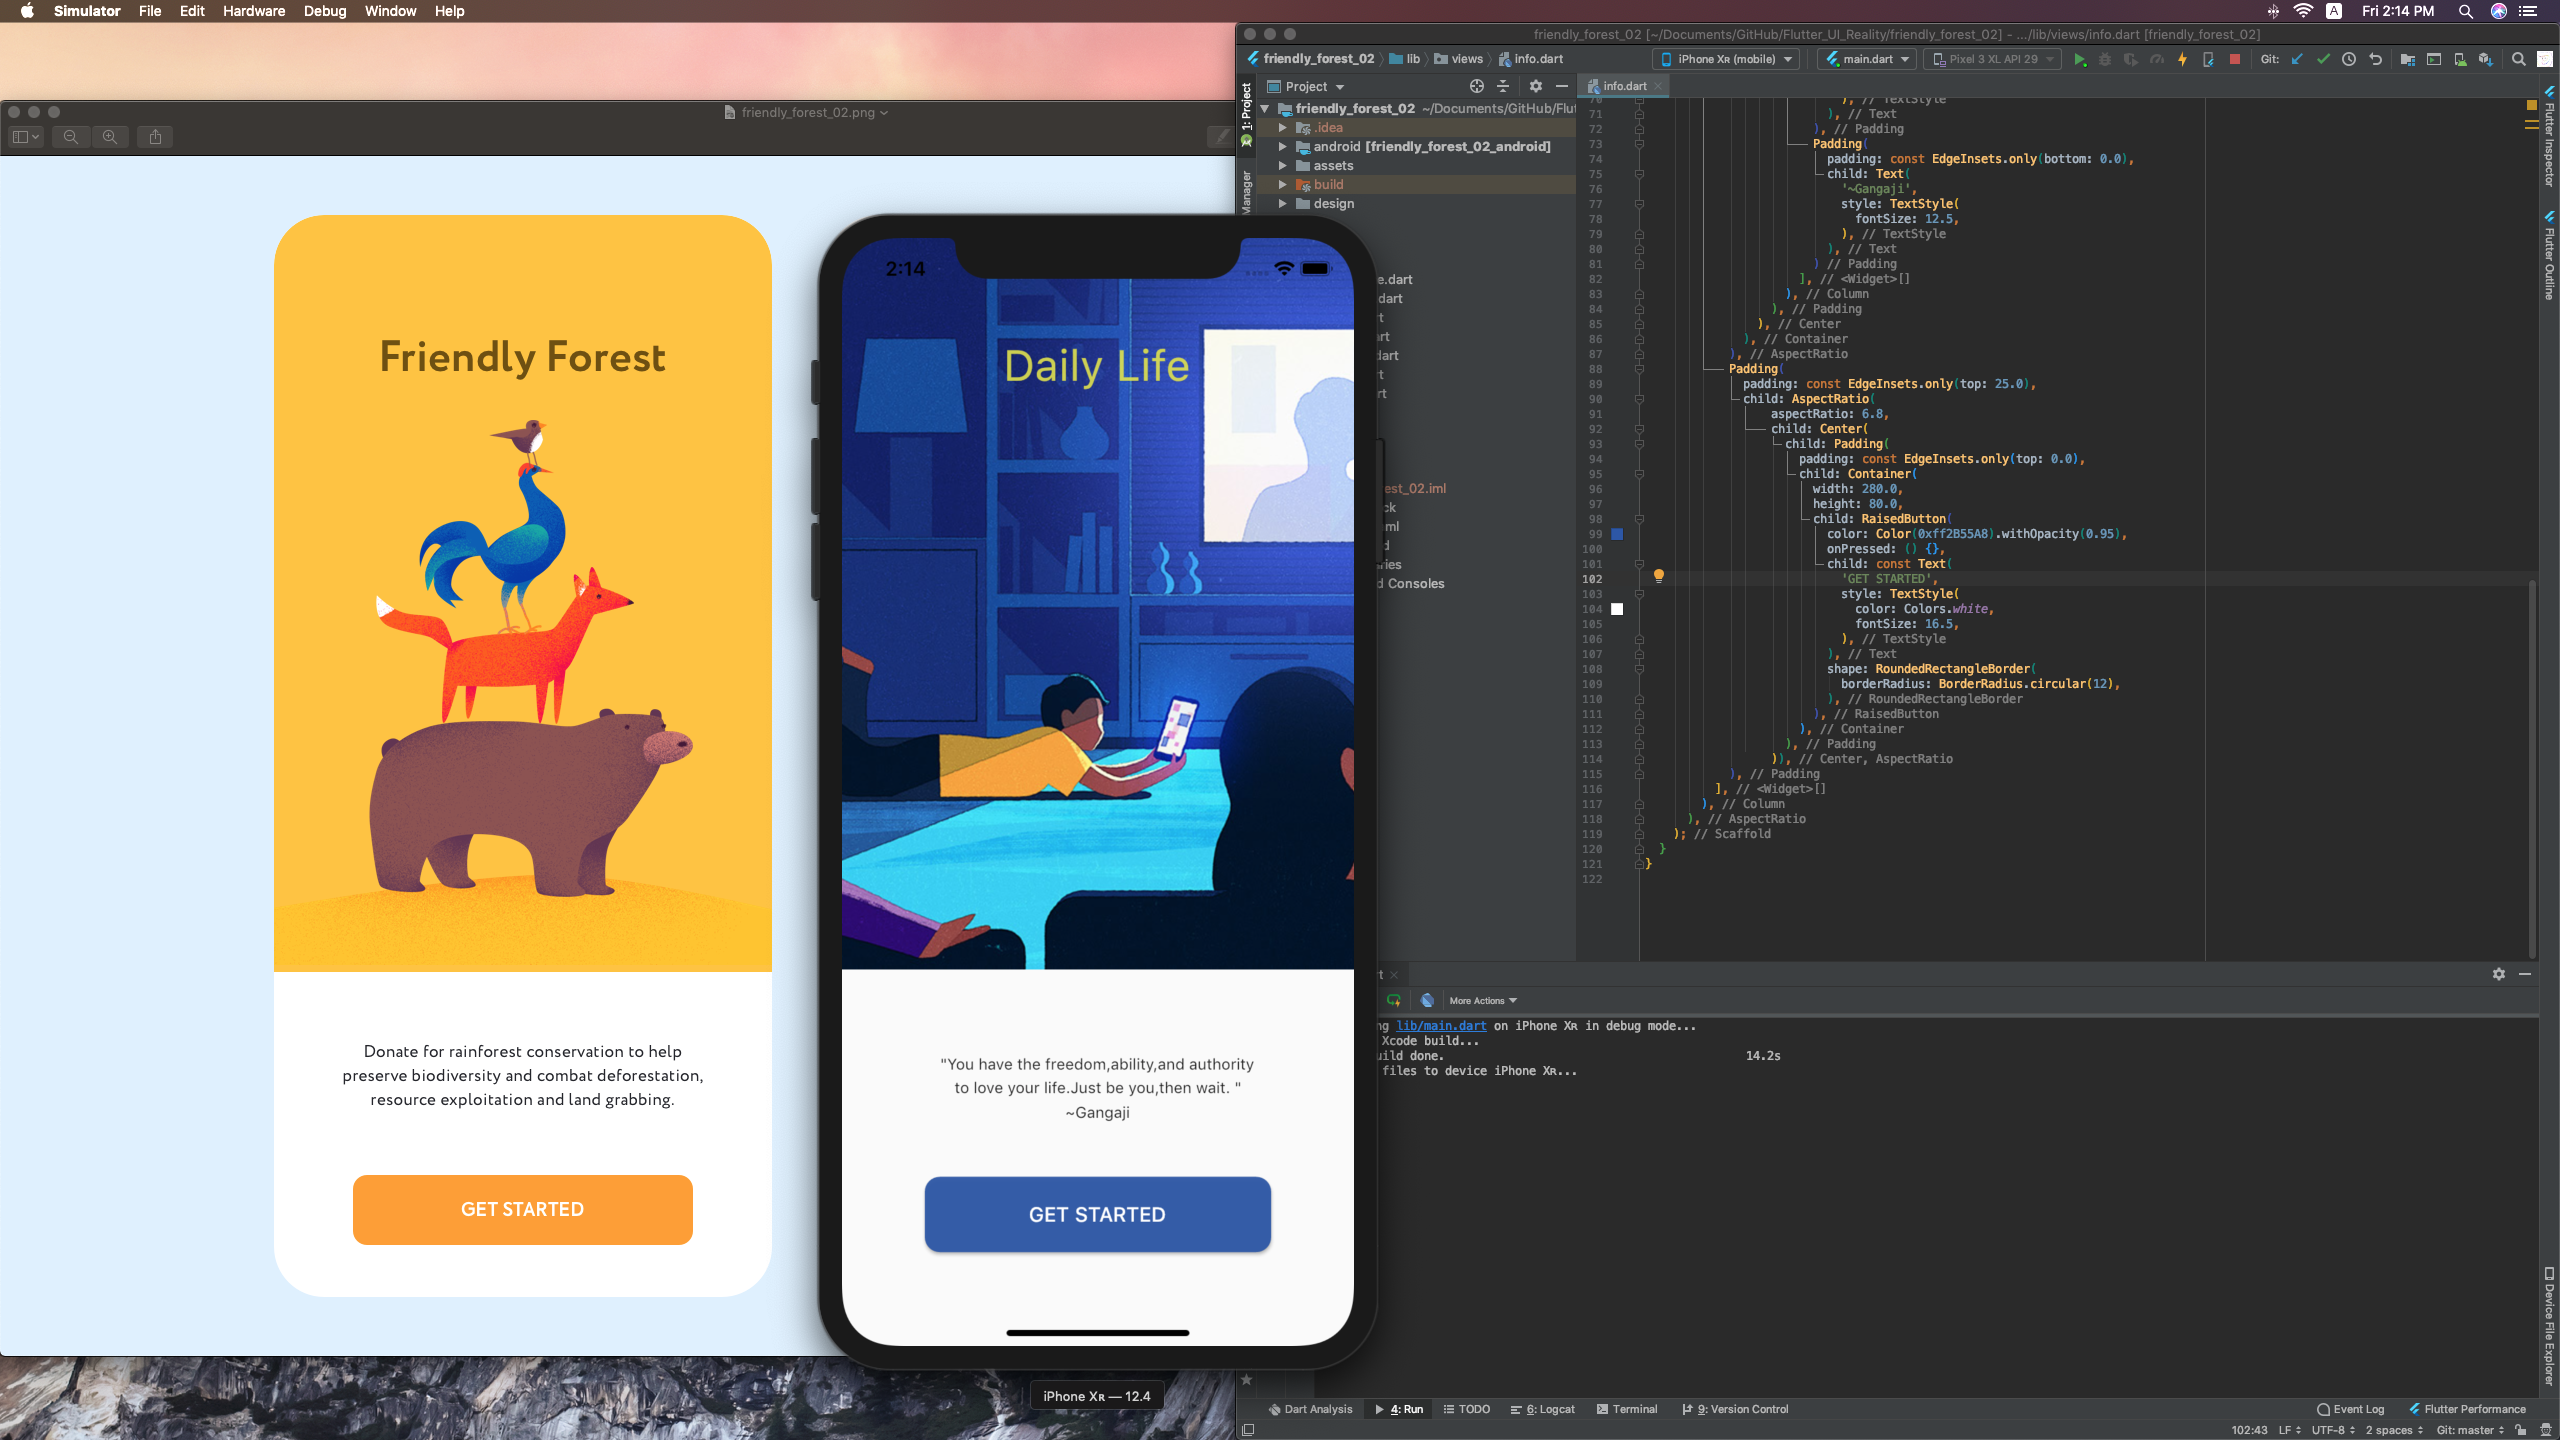
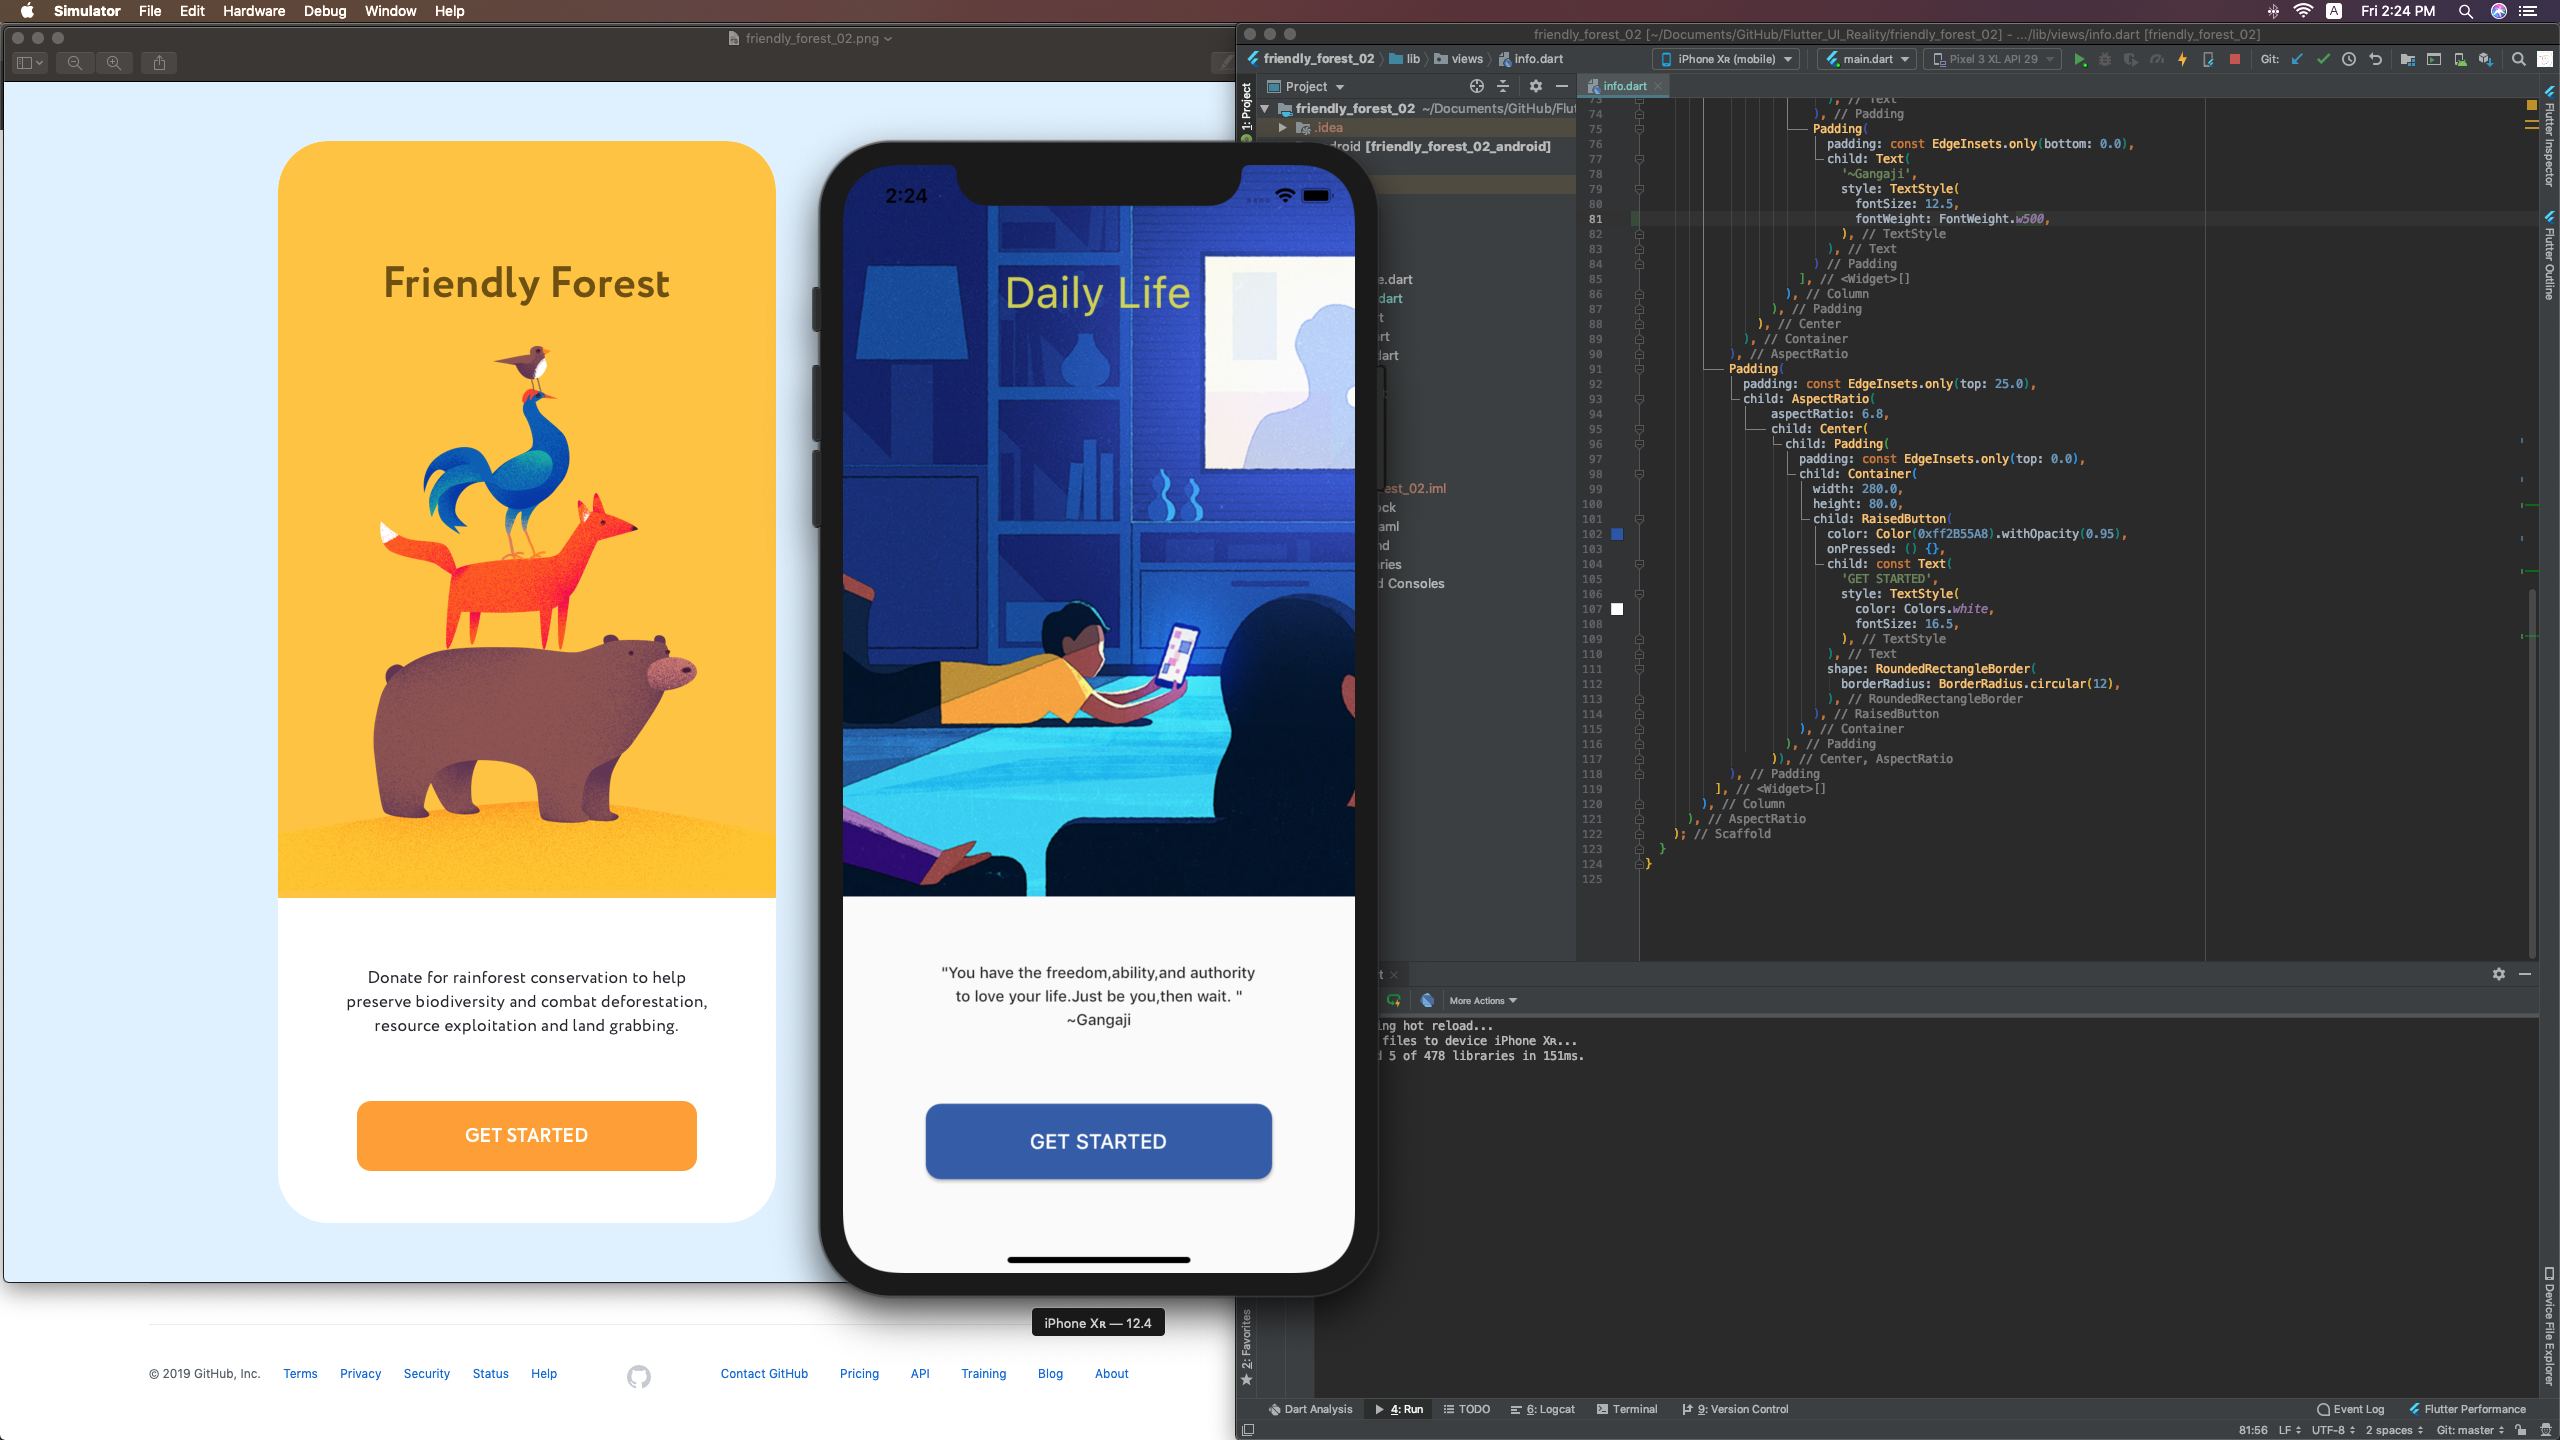
update

diff --git a/friendly_forest_02/lib/views/info.dart b/friendly_forest_02/lib/views/info.dart
@@ -48,25 +48,27 @@ class _InfoPageState extends State<InfoPage> {
               child: Container(
                 child: Center(
                   child: Padding(
-                    padding: const EdgeInsets.fromLTRB(0, 65, 0, 0),
+                    padding: const EdgeInsets.fromLTRB(0, 50, 0, 0),
                     child: Column(
                       children: <Widget>[
                         Padding(
                           padding: const EdgeInsets.all(4.0),
                           child: Text(
-                            //define a class for textstyle to avoid repeat coding
+                            //define a class for text style to avoid repeat coding
                             ' "You have the freedom,ability,and authority ',
                             style: TextStyle(
                               fontSize: 12.5,
+                              fontWeight: FontWeight.w500,
                             ),
                           ),
                         ),
                         Padding(
-                          padding: const EdgeInsets.only(bottom: 5.0),
+                          padding: const EdgeInsets.only(bottom: 4.0),
                           child: Text(
                             ' to love your life.Just be you,then wait. " ',
                             style: TextStyle(
                               fontSize: 12.5,
+                              fontWeight: FontWeight.w500,
                             ),
                           ),
                         ),
@@ -76,6 +78,7 @@ class _InfoPageState extends State<InfoPage> {
                             '~Gangaji',
                             style: TextStyle(
                               fontSize: 12.5,
+                              fontWeight: FontWeight.w500,
                             ),
                           ),
                         )
